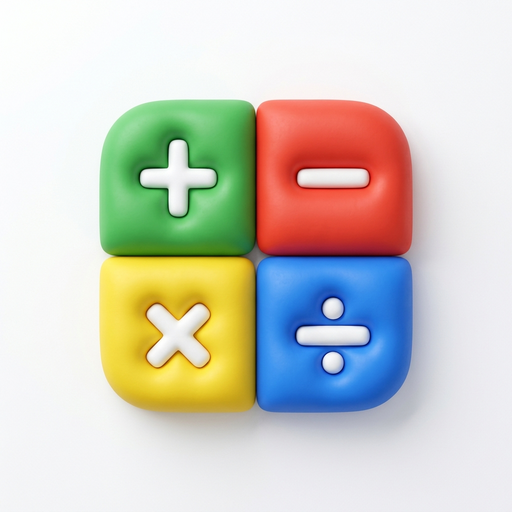
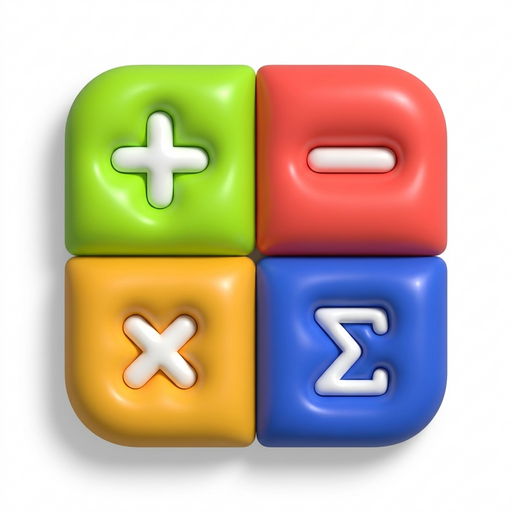
style: update branding to W∑b Calculator
- Update project name to "W∑b Calculator" and short name to "W∑bCalc"
- Update logo favicon to feature a Sigma (∑) symbol
- Clean up icon styles and container padding in UI components
- Refresh asset versioning to ensure cache busting

diff --git a/src/index.css b/src/index.css
@@ -417,15 +417,21 @@
   border-color: #e2e8f0 !important;
 }
 
-/* Nút chọn/tab được active luôn chuẩn Nền trắng chữ đen hoặc đen chữ trắng, không xanh/tím */
-[data-theme="light"] .sidebar-tool-active {
-  background-color: #0f172a !important;
-  color: #ffffff !important;
-  border-color: #0f172a !important;
-  box-shadow: 0 2px 5px rgba(0, 0, 0, 0.15) !important;
+/* Nút chọn công cụ trên Sidebar khi Active: Màu xanh biển nhạt (Light Sea Blue) */
+[data-theme="light"] .sidebar-tool-active,
+[data-theme="light"] aside#desktop-sidebar .sidebar-tool-active {
+  background-color: #e0f2fe !important;
+  color: #0369a1 !important;
+  border: 1px solid #7dd3fc !important;
+  box-shadow: 0 1px 4px rgba(14, 165, 233, 0.16) !important;
 }
-[data-theme="light"] .sidebar-tool-active * {
-  color: #ffffff !important;
+[data-theme="light"] .sidebar-tool-active *,
+[data-theme="light"] aside#desktop-sidebar .sidebar-tool-active * {
+  color: #0369a1 !important;
+}
+[data-theme="light"] .sidebar-tool-active .sidebar-active-dot,
+[data-theme="light"] aside#desktop-sidebar .sidebar-tool-active .sidebar-active-dot {
+  background-color: #0284c7 !important;
 }
 
 /* Thanh panel xám nhẹ & Tab chọn active: Nền trắng chữ đen chuẩn mực */
@@ -434,7 +440,7 @@
 [data-theme="light"] .segment-tab-active,
 [data-theme="light"] div[class*="bg-slate-100"] > button[class*="shadow-"],
 [data-theme="light"] div[class*="bg-slate-200"] > button[class*="shadow-"],
-[data-theme="light"] button[class*="bg-blue-600"]:not(.calc-num-btn):not(#main-header *) {
+[data-theme="light"] button[class*="bg-blue-600"]:not(.calc-num-btn):not(#main-header *):not(.sidebar-tool-active) {
   background-color: #ffffff !important;
   color: #000000 !important;
   border: 1px solid #cbd5e1 !important;
@@ -551,14 +557,18 @@
 }
 
 [data-theme="light"] aside#desktop-sidebar .sidebar-tool-active {
-  background-color: #0f172a !important;
-  color: #ffffff !important;
-  border-color: #0f172a !important;
-  box-shadow: 0 2px 6px rgba(15, 23, 42, 0.15) !important;
+  background-color: #e0f2fe !important;
+  color: #0369a1 !important;
+  border: 1px solid #7dd3fc !important;
+  box-shadow: 0 1px 4px rgba(14, 165, 233, 0.16) !important;
 }
 
 [data-theme="light"] aside#desktop-sidebar .sidebar-tool-active * {
-  color: #ffffff !important;
+  color: #0369a1 !important;
+}
+
+[data-theme="light"] aside#desktop-sidebar .sidebar-tool-active .sidebar-active-dot {
+  background-color: #0284c7 !important;
 }
 
 [data-theme="light"] aside#desktop-sidebar input {
@@ -605,15 +615,20 @@
 
 [data-theme="dark"] aside#desktop-sidebar .sidebar-tool-active,
 .dark aside#desktop-sidebar .sidebar-tool-active {
-  background-color: #2563eb !important;
-  color: #ffffff !important;
-  border-color: #3b82f6 !important;
-  box-shadow: 0 4px 12px rgba(37, 99, 235, 0.35) !important;
+  background-color: rgba(14, 165, 233, 0.2) !important;
+  color: #38bdf8 !important;
+  border: 1px solid rgba(56, 189, 248, 0.45) !important;
+  box-shadow: 0 2px 10px rgba(14, 165, 233, 0.25) !important;
 }
 
 [data-theme="dark"] aside#desktop-sidebar .sidebar-tool-active *,
 .dark aside#desktop-sidebar .sidebar-tool-active * {
-  color: #ffffff !important;
+  color: #38bdf8 !important;
+}
+
+[data-theme="dark"] aside#desktop-sidebar .sidebar-tool-active .sidebar-active-dot,
+.dark aside#desktop-sidebar .sidebar-tool-active .sidebar-active-dot {
+  background-color: #38bdf8 !important;
 }
 
 [data-theme="dark"] aside#desktop-sidebar input,

diff --git a/src/components/common/AppLogo.tsx b/src/components/common/AppLogo.tsx
@@ -9,7 +9,7 @@ interface AppLogoProps {
 export const AppLogo: React.FC<AppLogoProps> = ({ 
   className = "w-9 h-9", 
   size,
-  useImage = false 
+  useImage = true 
 }) => {
   const style = size ? { width: `${size}px`, height: `${size}px` } : undefined;
 
@@ -18,9 +18,15 @@ export const AppLogo: React.FC<AppLogoProps> = ({
       <img
         src="/app-logo.png"
         alt="Calculator Logo"
-        className={`object-contain rounded-2xl drop-shadow-md select-none ${className}`}
-        style={style}
+        className={`object-contain select-none ${className}`}
+        style={{
+          WebkitBackfaceVisibility: 'hidden',
+          transform: 'translateZ(0)',
+          ...style
+        }}
         loading="eager"
+        decoding="async"
+        draggable={false}
       />
     );
   }
@@ -139,7 +145,7 @@ export const AppLogo: React.FC<AppLogoProps> = ({
         <rect x="22.5" y="63" width="7" height="22" rx="3.5" fill="#FFFFFF" />
       </g>
 
-      {/* --- BOTTOM-RIGHT: BLUE TILE (letter e) --- */}
+      {/* --- BOTTOM-RIGHT: BLUE TILE (Sigma ∑) --- */}
       <g filter="url(#tileShadow)">
         <path
           d="M 59,52 L 89,52 A 7,7 0 0,1 96,59 L 96,76 A 20,20 0 0,1 76,96 L 59,96 A 7,7 0 0,1 52,89 L 52,59 A 7,7 0 0,1 59,52 Z"
@@ -150,13 +156,13 @@ export const AppLogo: React.FC<AppLogoProps> = ({
           fill="url(#blueLight)"
         />
       </g>
-      {/* Letter 'e' Math Constant Symbol */}
+      {/* Sigma (∑) Summation Math Symbol */}
       <g filter="url(#symbol3d)">
         <path
-          d="M 83.5,80 C 80.5,84 76.5,85 72.5,85 C 66,85 62,80 62,74 C 62,67.5 66.5,63 73,63 C 79.5,63 84,67.5 84,73.5 L 62.5,73.5"
+          d="M 81,66 L 67.5,66 L 73.5,74 L 67.5,82 L 81,82"
           fill="none"
           stroke="#FFFFFF"
-          strokeWidth="6.5"
+          strokeWidth="5.5"
           strokeLinecap="round"
           strokeLinejoin="round"
         />

diff --git a/index.html b/index.html
@@ -12,13 +12,13 @@
     <meta name="googlebot-news" content="noindex, nofollow" />
 
     <!-- Favicon & PWA Manifest (Google Search & Cross-Browser Standard) -->
-    <link rel="icon" type="image/svg+xml" href="/favicon.svg?v=20260926" />
-    <link rel="icon" type="image/png" sizes="48x48" href="/favicon.png?v=20260926" />
-    <link rel="icon" type="image/png" sizes="32x32" href="/favicon-32x32.png?v=20260926" />
-    <link rel="icon" type="image/png" sizes="16x16" href="/favicon-16x16.png?v=20260926" />
-    <link rel="shortcut icon" href="/favicon.ico?v=20260926" />
-    <link rel="apple-touch-icon" sizes="180x180" href="/apple-touch-icon.png?v=20260926" />
-    <link rel="manifest" href="/manifest.json?v=20260926" />
+    <link rel="icon" type="image/svg+xml" href="/favicon.svg?v=20260927" />
+    <link rel="icon" type="image/png" sizes="48x48" href="/favicon.png?v=20260927" />
+    <link rel="icon" type="image/png" sizes="32x32" href="/favicon-32x32.png?v=20260927" />
+    <link rel="icon" type="image/png" sizes="16x16" href="/favicon-16x16.png?v=20260927" />
+    <link rel="shortcut icon" href="/favicon.ico?v=20260927" />
+    <link rel="apple-touch-icon" sizes="180x180" href="/apple-touch-icon.png?v=20260927" />
+    <link rel="manifest" href="/manifest.json?v=20260927" />
 
     <!-- Canonical URL (Points to /en/ x-default standard) -->
     <link rel="canonical" id="canonical-link" href="https://web-calculator.com/en/" />

diff --git a/src/components/common/BottomTabBar.tsx b/src/components/common/BottomTabBar.tsx
@@ -126,10 +126,10 @@ export const BottomTabBar: React.FC<BottomTabBarProps> = ({
                     : 'text-slate-600 dark:text-slate-400 hover:text-slate-900 dark:hover:text-slate-200'
                 }`}
               >
-                <div className={`p-1.5 rounded-xl transition-all ${
+                <div className={`p-1.5 transition-all ${
                   isActive 
-                    ? 'bg-blue-500/15 text-[#3B82F6]' 
-                    : `${theme.badgeClass}`
+                    ? 'text-[#3B82F6]' 
+                    : theme.iconColor
                 }`}>
                   {tool.icon}
                 </div>
@@ -258,8 +258,8 @@ export const BottomTabBar: React.FC<BottomTabBarProps> = ({
                       }`}
                     >
                       <div className="flex items-center gap-3">
-                        <div className={`w-9 h-9 flex items-center justify-center rounded-xl shadow-xs transition-transform ${
-                          isActive ? 'bg-[#3B82F6] text-white' : theme.badgeClass
+                        <div className={`w-8 h-8 flex items-center justify-center shrink-0 transition-transform ${
+                          isActive ? 'text-blue-600 dark:text-blue-400' : theme.iconColor
                         }`}>
                           {tool.icon}
                         </div>

diff --git a/src/components/common/Sidebar.tsx b/src/components/common/Sidebar.tsx
@@ -182,12 +182,12 @@ export const Sidebar: React.FC<SidebarProps> = ({
         }`}
       >
         <div className="flex items-center gap-2.5 min-w-0 flex-1 pr-2">
-          <span className={`w-8 h-8 flex items-center justify-center rounded-xl shrink-0 transition-transform duration-200 group-hover:scale-105 ${
+          <span className={`w-7 h-7 flex items-center justify-center shrink-0 transition-transform duration-200 group-hover:scale-110 ${
             isActive 
-              ? 'bg-white/20 text-white shadow-xs' 
-              : colorTheme.badgeClass
+              ? 'text-white' 
+              : colorTheme.iconColor
           }`}>
-            <ToolIcon id={tool.id} className="w-[18px] h-[18px]" />
+            <ToolIcon id={tool.id} className="w-[19px] h-[19px]" />
           </span>
           <span className="text-[14px] font-medium leading-snug break-words group-hover:text-blue-600 dark:group-hover:text-sky-300">
             {localizedName}

diff --git a/src/components/common/Header.tsx b/src/components/common/Header.tsx
@@ -83,7 +83,13 @@ export const Header: React.FC<HeaderProps> = ({
             </div>
             <div>
               <div className="flex items-center gap-1.5 sm:gap-2">
-                <span className="font-extrabold text-base sm:text-lg tracking-tight text-slate-900 dark:text-white">Calculator Pro</span>
+                <span 
+                  className="font-extrabold text-base sm:text-lg tracking-tight text-slate-900 dark:text-white"
+                  aria-label="Web Calculator"
+                >
+                  <span>Web</span>
+                  <span className="ml-1.5 font-bold text-slate-900 dark:text-white">Calculator</span>
+                </span>
               </div>
               <p className="text-[11px] text-slate-500 dark:text-slate-400 hidden sm:block -mt-0.5">{t.siteSubtitle}</p>
             </div>
